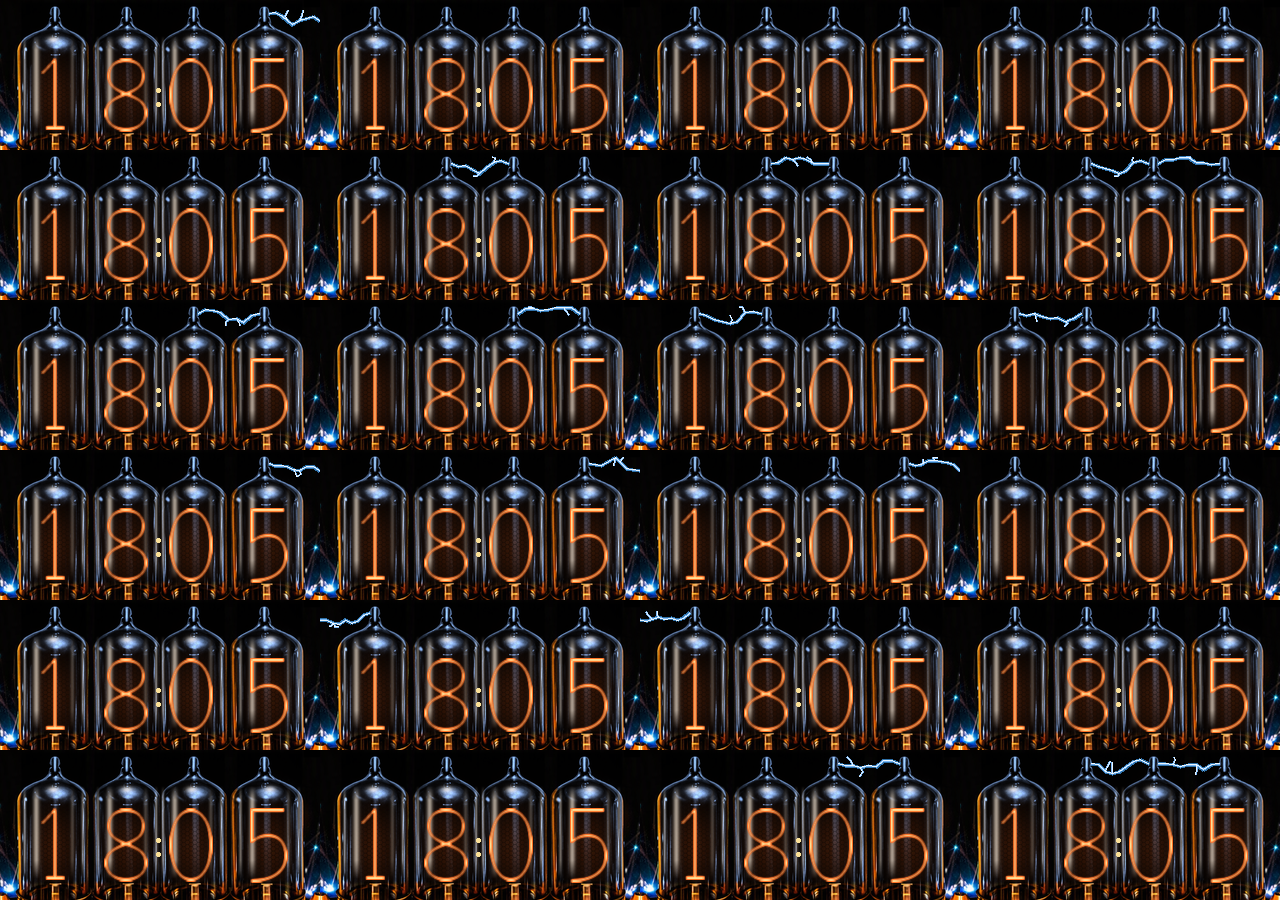
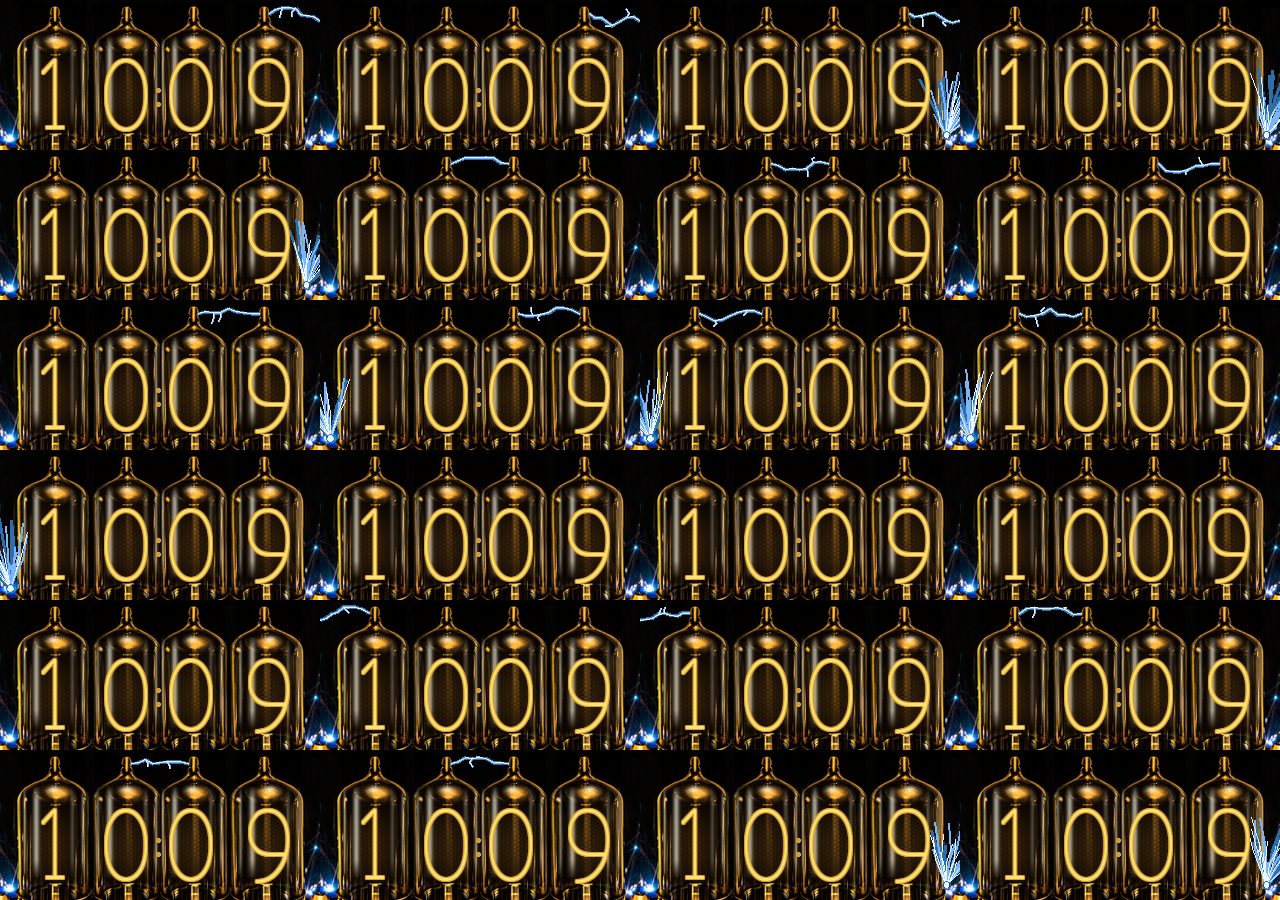
feat(ciq): animated blue side sparks beside the outer tubes
The artwork already paints a blue spark beside tubes 1 and 4; the user asked
for it to move, from the same spot: "the emitter on the side where the current
blue spark emitter is ... fly off into the area above the emitter beside the
tubes". So the emitter is the painted spark's own bright core - measured on the
shipping frame as the top-15% blue-excess centroid of each side margin,
(10,138) left and (306,135) right - inverted through the SHIPPING transform and
generated into Layout.mc as SPARK_X/SPARK_Y (the round-trip returns exactly
those pixels).

Filaments fan about straight up with a small outward bias (10 per burst, 22-70
px, 1-4 frames on / 5-22 off at 100 ms), re-jittered every frame while a burst
lasts, in the bolts' own bloom/sheath/core palette. They live in Discharge with
the arcs - one state machine, one timer, one reset path - and preview.py
mirrors them by consuming the LCG in the device's exact order, so the offline
replay stays frame-identical.

Runs only in high power, like the arcs: no timers in low power.

Changed region(s): [[0.0, 0.0, 1.0, 1.0]]

diff --git a/ciq/spark_mockup.py b/ciq/spark_mockup.py
@@ -1,0 +1,137 @@
+"""Mockup: the blue side sparks, ANIMATED - the effect rendered offline before any device code.
+
+DECISION SUPPORT, not shipping code. The user's reference (the AI face render) carries blue
+star-crackle at the outer sides of tubes 1 and 4 at mid-tube height, and asks for the face's own
+side sparks to be animated. On this face those sparks are BAKED into the artwork (measured: blue
+clusters at screen x 0..18 y 106..147 and x 304..319 y 111..148). This renders the live version -
+the same LCG, state machine and pass structure `source/Discharge.mc` uses, so porting is mechanical -
+as a GIF (the wrist-raise loop) plus a contact sheet of one burst's life.
+
+Palette is the shipped bolt palette (measured off the reference's sparks: core (149,191,233),
+tips (11,20,37) - ARC_SHEATH 0x7AB6F7 and ARC_BLOOM 0x2F6EA8 sit right there).
+
+Writes artwork/spark_anim.gif (tube band, 2x) and artwork/spark_sheet.png (8 frames of one burst).
+"""
+import os
+
+import numpy as np
+from PIL import Image, ImageDraw
+
+import device_colour
+import preview
+
+HERE = os.path.dirname(os.path.abspath(__file__))
+OUT = os.path.join(HERE, "artwork")
+
+# ---------------------------------------------------------------- tuning (the device's numbers)
+FRAME_MS = 100
+# Emitter origins: the bright core of the spark CURRENTLY baked in the artwork (user: "the emitter on
+# the side where the current blue spark emitter is"). Measured off the shipping background - the
+# top-15 % blue-excess centroid in each side margin is (10, 138) left and (306, 135) right; the
+# surrounding baked glow spans y 6..238 (left) / 7..148 (right), i.e. up the tubes' own sides.
+SPARK_X = [10, 306]
+SPARK_Y = [138, 135]
+SPARK_UP = -90.0                 # the filaments FLY UP from the emitter (screen degrees)
+SPARK_BIAS = [-13.0, 13.0]       # each emitter tilts slightly outward, away from its tube
+SPARK_LINES = 10                 # radiating filaments per burst
+SPARK_SPREAD = 32.0              # half-angle of the fan, degrees, about straight up
+SPARK_LEN = (22, 70)             # filament length, screen px - reaches up beside the tube
+SPARK_ON_MIN, SPARK_ON_MAX = 1, 4
+SPARK_OFF_MIN, SPARK_OFF_MAX = 5, 22
+SPARK_BLOOM = 0x2F6EA8
+SPARK_SHEATH = 0x7AB6F7
+SPARK_CORE = 0xEAF6FF
+
+
+class Sparks:
+    """Two side emitters, sparks flying UP beside the tubes. Same 31-bit LCG and on/off state
+    machine as Discharge, one extra axis: while a burst is ON it is re-jittered every frame, which
+    is what makes it crackle."""
+
+    def __init__(self):
+        self.seed = 20261010
+        n = len(SPARK_X)
+        self.timer = [self.between(1, SPARK_OFF_MAX) for _ in range(n)]
+        self.on = [False] * n
+
+    def next(self):
+        self.seed = (self.seed * 0x41C64E6D + 12345) & 0x7FFFFFFF
+        return self.seed >> 16
+
+    def between(self, lo, hi):
+        return lo + self.next() % (hi - lo + 1)
+
+    def step(self):
+        for k in range(len(self.timer)):
+            self.timer[k] -= 1
+            if self.timer[k] <= 0:
+                self.on[k] = not self.on[k]
+                self.timer[k] = (self.between(SPARK_ON_MIN, SPARK_ON_MAX) if self.on[k]
+                                 else self.between(SPARK_OFF_MIN, SPARK_OFF_MAX))
+
+    def filaments(self, k):
+        """One frame's filaments for emitter k: a fan about straight up, each with a kink so the
+        crackle reads as electric rather than as a fan of straight lines."""
+        import math
+        ox, oy = SPARK_X[k], SPARK_Y[k]
+        out = []
+        for _ in range(SPARK_LINES):
+            a = math.radians(SPARK_UP + SPARK_BIAS[k]
+                             + (self.between(0, 2000) - 1000) * SPARK_SPREAD / 1000.0)
+            ln = float(self.between(*SPARK_LEN))
+            dx, dy = math.cos(a), math.sin(a)
+            # bend across the filament (perpendicular), so the path zigzags like a discharge
+            px, py = -dy, dx
+            kink = self.between(-5, 5)
+            mx = ox + dx * ln * 0.55 + px * kink
+            my = oy + dy * ln * 0.55 + py * kink
+            tx = ox + dx * ln + px * kink + (self.between(-4, 4))
+            ty = oy + dy * ln + py * kink
+            out.append([(ox, oy), (mx, my), (tx, ty)])
+        return out
+
+    def draw(self, canvas):
+        d = ImageDraw.Draw(canvas)
+        for k in range(len(self.on)):
+            if not self.on[k]:
+                continue
+            fils = self.filaments(k)
+            for pen, ink in ((3, SPARK_BLOOM), (2, SPARK_SHEATH), (1, SPARK_CORE)):
+                col = preview.rgb(ink)
+                for f in fils:
+                    d.line(f, fill=col, width=pen, joint="curve")
+            # a hot head where the burst leaves the tube: bright, small
+            r = 2
+            d.ellipse([SPARK_X[k] - r, SPARK_Y[k] - r, SPARK_X[k] + r, SPARK_Y[k] + r],
+                      fill=preview.rgb(SPARK_CORE))
+            r = 4
+            d.ellipse([SPARK_X[k] - r, SPARK_Y[k] - r, SPARK_X[k] + r, SPARK_Y[k] + r],
+                      outline=preview.rgb(SPARK_BLOOM))
+
+
+if __name__ == "__main__":
+    consts = preview.parse_constants()
+    bg = Image.open(os.path.join(HERE, "resources", "drawables", "background.png")).convert("RGB")
+    sp = Sparks()
+    frames = []
+    for n in range(32):
+        sp.step()
+        face = preview.render(consts=consts, hr=128, background=bg)
+        sp.draw(face)
+        face = device_colour.as_seen(face)
+        frames.append(face)
+
+    band = [f.crop((0, 0, 320, 185)).resize((640, 370), Image.LANCZOS) for f in frames]
+    gif = os.path.join(OUT, "spark_anim.gif")
+    band[0].save(gif, save_all=True, append_images=band[1:], duration=FRAME_MS, loop=0, optimize=True)
+
+    # contact sheet: one burst's life (frames 0..15) at 1x, so the flicker reads
+    cw, ch = 320, 185
+    sheet = Image.new("RGB", (cw * 4, ch * 4), (20, 18, 16))
+    for i in range(16):
+        sheet.paste(frames[i].crop((0, 0, cw, ch)), ((i % 4) * cw, (i // 4) * ch))
+    sheet = sheet.resize((cw * 4 * 2, ch * 4 * 2), Image.LANCZOS)
+    sheet_p = os.path.join(OUT, "spark_sheet.png")
+    sheet.save(sheet_p)
+    print(f"{gif}  {len(frames)} frames @ {FRAME_MS} ms;  sheet {sheet_p}")
+    print("emitter origins (screen):", list(zip(SPARK_X, SPARK_Y)))

diff --git a/ciq/preview.py b/ciq/preview.py
@@ -144,6 +144,13 @@ class Discharge:
         self.on = [False] * n
         for k in range(n):
             self.timer[k] = self.between(1, c["ARC_OFF_MAX"])
+        # the side sparks: their own on/off phases, staggered like the arcs (same draw order as the
+        # device, so the LCG stream - and therefore every frame - matches)
+        m = len(c["SPARK_X"])
+        self.spark_timer = [0] * m
+        self.spark_on = [False] * m
+        for k in range(m):
+            self.spark_timer[k] = self.between(1, c["SPARK_OFF_MAX"])
 
     def next(self):
         self.seed = (self.seed * 1103515245 + 12345) & 0x7FFFFFFF
@@ -160,6 +167,13 @@ class Discharge:
                 self.on[k] = not self.on[k]
                 self.timer[k] = (self.between(c["ARC_ON_MIN"], c["ARC_ON_MAX"]) if self.on[k]
                                  else self.between(c["ARC_OFF_MIN"], c["ARC_OFF_MAX"]))
+        for k in range(len(self.spark_timer)):
+            self.spark_timer[k] -= 1
+            if self.spark_timer[k] <= 0:
+                self.spark_on[k] = not self.spark_on[k]
+                self.spark_timer[k] = (self.between(c["SPARK_ON_MIN"], c["SPARK_ON_MAX"])
+                                       if self.spark_on[k]
+                                       else self.between(c["SPARK_OFF_MIN"], c["SPARK_OFF_MAX"]))
 
     def clamp_y(self, y):
         return min(max(y, float(self.c["ARC_Y_MIN"])), float(self.c["ARC_Y_MAX"]))
@@ -170,6 +184,35 @@ class Discharge:
         for k in range(len(self.on)):
             if self.on[k]:
                 self.draw_arc(d, k)
+        for k in range(len(self.spark_on)):
+            if self.spark_on[k]:
+                self.draw_spark(d, k)
+
+    def draw_spark(self, d, k):
+        """The device's drawSpark: SPARK_LINES filaments fanning UP from the painted spark's core,
+        each bent across its own path, bloom (3 px) -> sheath (2 px) -> core (1 px), plus the head.
+        The random draws are consumed in exactly the device's order (degree, length, bend, tip
+        jitter, per filament, per pass) or the LCG stream diverges and the replay drifts."""
+        import math
+        c = self.c
+        ox, oy = c["SPARK_X"][k], c["SPARK_Y"][k]
+        for pen, ink in ((3, c["ARC_BLOOM"]), (2, c["ARC_SHEATH"]), (1, c["ARC_CORE"])):
+            col = rgb(ink)
+            for _ in range(c["SPARK_LINES"]):
+                deg = (c["SPARK_UP"] + c["SPARK_BIAS"][k]
+                       + (self.between(0, 2000) - 1000) * c["SPARK_SPREAD"] / 1000.0)
+                rad = math.radians(deg)
+                dx, dy = math.cos(rad), math.sin(rad)
+                ln = float(self.between(c["SPARK_LEN_MIN"], c["SPARK_LEN_MAX"]))
+                kink = float(self.between(-5, 5))
+                mx = ox + dx * ln * 0.55 - dy * kink
+                my = oy + dy * ln * 0.55 + dx * kink
+                tx = ox + dx * ln - dy * kink + self.between(-4, 4)
+                ty = oy + dy * ln + dx * kink
+                d.line([(ox, oy), (mx, my)], fill=col, width=pen)
+                d.line([(mx, my), (tx, ty)], fill=col, width=pen)
+        d.ellipse([ox - 2, oy - 2, ox + 2, oy + 2], fill=rgb(c["ARC_CORE"]))
+        d.ellipse([ox - 4, oy - 4, ox + 4, oy + 4], outline=rgb(c["ARC_BLOOM"]))
 
     def draw_arc(self, d, k):
         c = self.c

diff --git a/ciq/target_look.py b/ciq/target_look.py
@@ -1,0 +1,62 @@
+"""Mockup: the TARGET LOOK in one image - amber glass + reference-matched digits + live side sparks -
+shown beside the user's reference. Decision support; writes artwork/target_look.png only.
+"""
+import os
+
+import numpy as np
+from PIL import Image, ImageDraw, ImageFont
+
+import amber_candidates as ac
+import device_colour
+import preview
+import spark_mockup as sm
+
+HERE = os.path.dirname(os.path.abspath(__file__))
+OUT = os.path.join(HERE, "artwork", "target_look.png")
+
+
+def label_font(size):
+    for p in (r"C:\Windows\Fonts\segoeui.ttf", r"C:\Windows\Fonts\arial.ttf"):
+        if os.path.exists(p):
+            return ImageFont.truetype(p, size)
+    return ImageFont.load_default()
+
+
+if __name__ == "__main__":
+    glass = dict(zip(("cast", "gamma", "lift"), ac.GLASS[1][1:]))    # B amber
+    bg = ac.build(glass["cast"], glass["gamma"], glass["lift"])
+    ink = ac.INK[2][1:]                                              # 3 ref hot core
+    ratio, stroke = ac.legibility(bg, ink)
+    frames = []
+    sp = sm.Sparks()
+    for n in range(24):
+        sp.step()
+        face = ac.render(bg, ink)
+        sp.draw(face)
+        frames.append(device_colour.as_seen(face))
+    b, dk = ac.measure(frames[8])
+
+    ref = Image.open(ac.REF).convert("RGB").crop((44, 20, 1013, 430))
+    face = frames[8].resize((640, 720), Image.LANCZOS)
+    band = face.crop((0, 0, 640, 400))
+    w = 640
+    refb = ref.resize((w, round(ref.height * w / ref.width)), Image.LANCZOS)
+    s = Image.new("RGB", (2 * w + 36, 30 + refb.height + 30 + 400 + 12 + 360 + 12), (26, 24, 22))
+    d = ImageDraw.Draw(s)
+    f = label_font(22)
+    d.text((12, 8), "REFERENCE (the user's AI render, tube band)", fill=(240, 215, 165), font=f)
+    d.text((16 + w, 8), "PROPOSED: amber glass + reference-matched digits + live side sparks",
+           fill=(240, 215, 165), font=f)
+    s.paste(refb, (12, 30))
+    s.paste(band, (16 + w, 30))
+    y = 30 + max(refb.height, 400) + 12
+    d.text((12, y), f"lit glass ({b[0]:.0f},{b[1]:.0f},{b[2]:.0f})   dark glass "
+                    f"({dk[0]:.0f},{dk[1]:.0f},{dk[2]:.0f})   digit core-vs-glass {ratio:.1f}:1   "
+                    f"stroke {stroke:.0f} px   emitter origins (16,126) / (304,126)",
+           fill=(240, 215, 165), font=f)
+    s.paste(face.resize((320, 360), Image.LANCZOS), (16 + w, y + 26))
+    s.paste(frames[8].resize((640, 720), Image.LANCZOS).crop((0, 0, 640, 380)), (12, y + 26))
+    s.save(OUT)
+    print("wrote", OUT, s.size)
+    print(f"amber glass lit ({b[0]:.0f},{b[1]:.0f},{b[2]:.0f}); digit core-vs-glass {ratio:.1f}:1,"
+          f" stroke {stroke:.0f} px")
